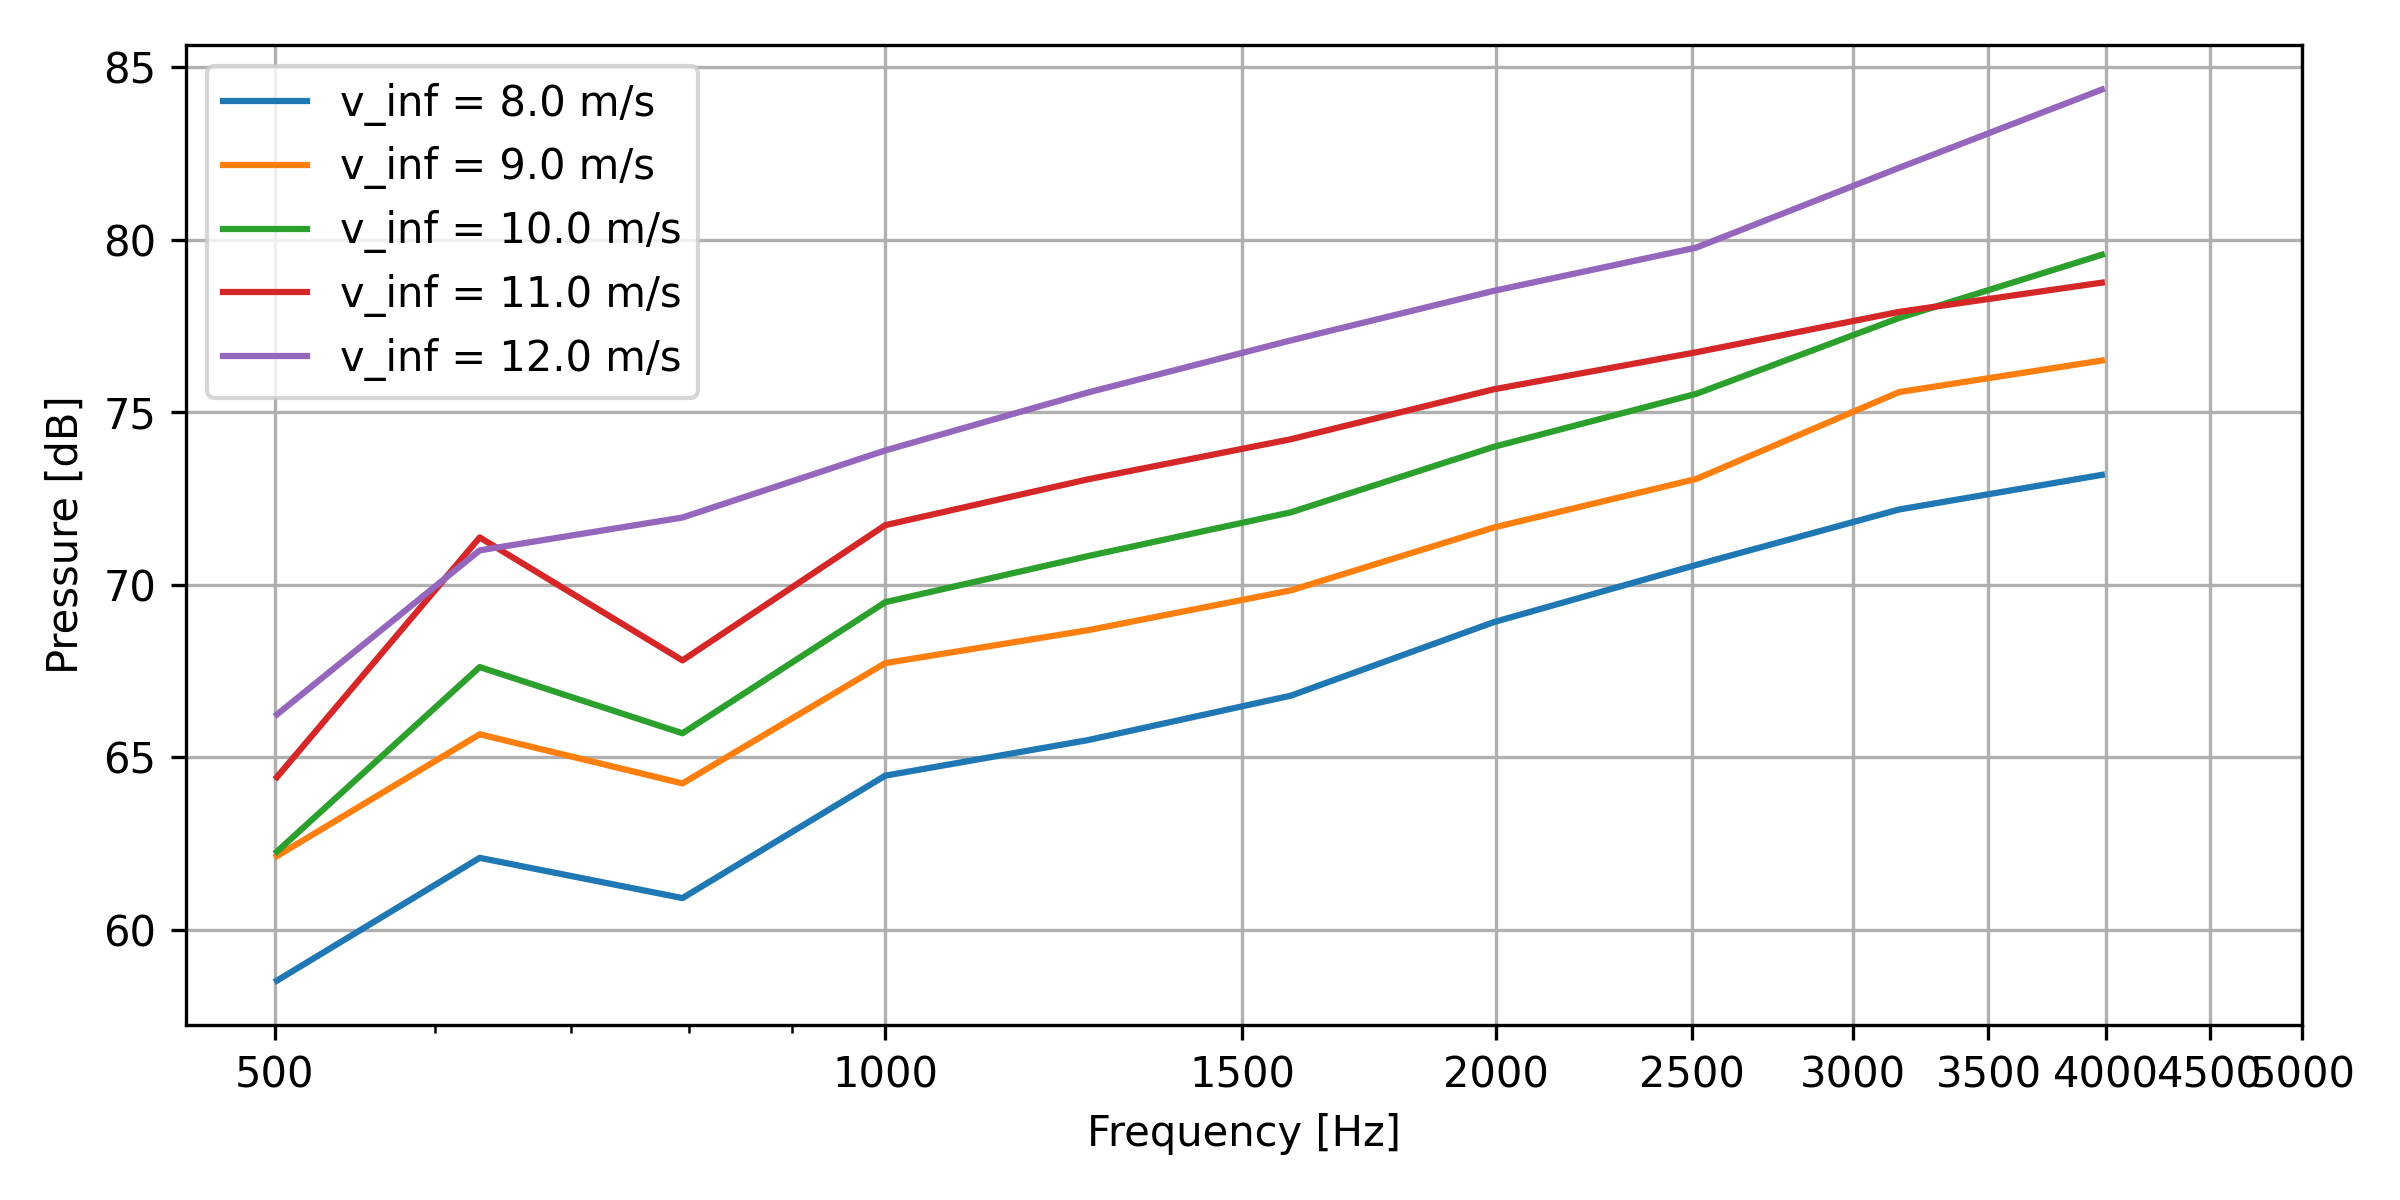
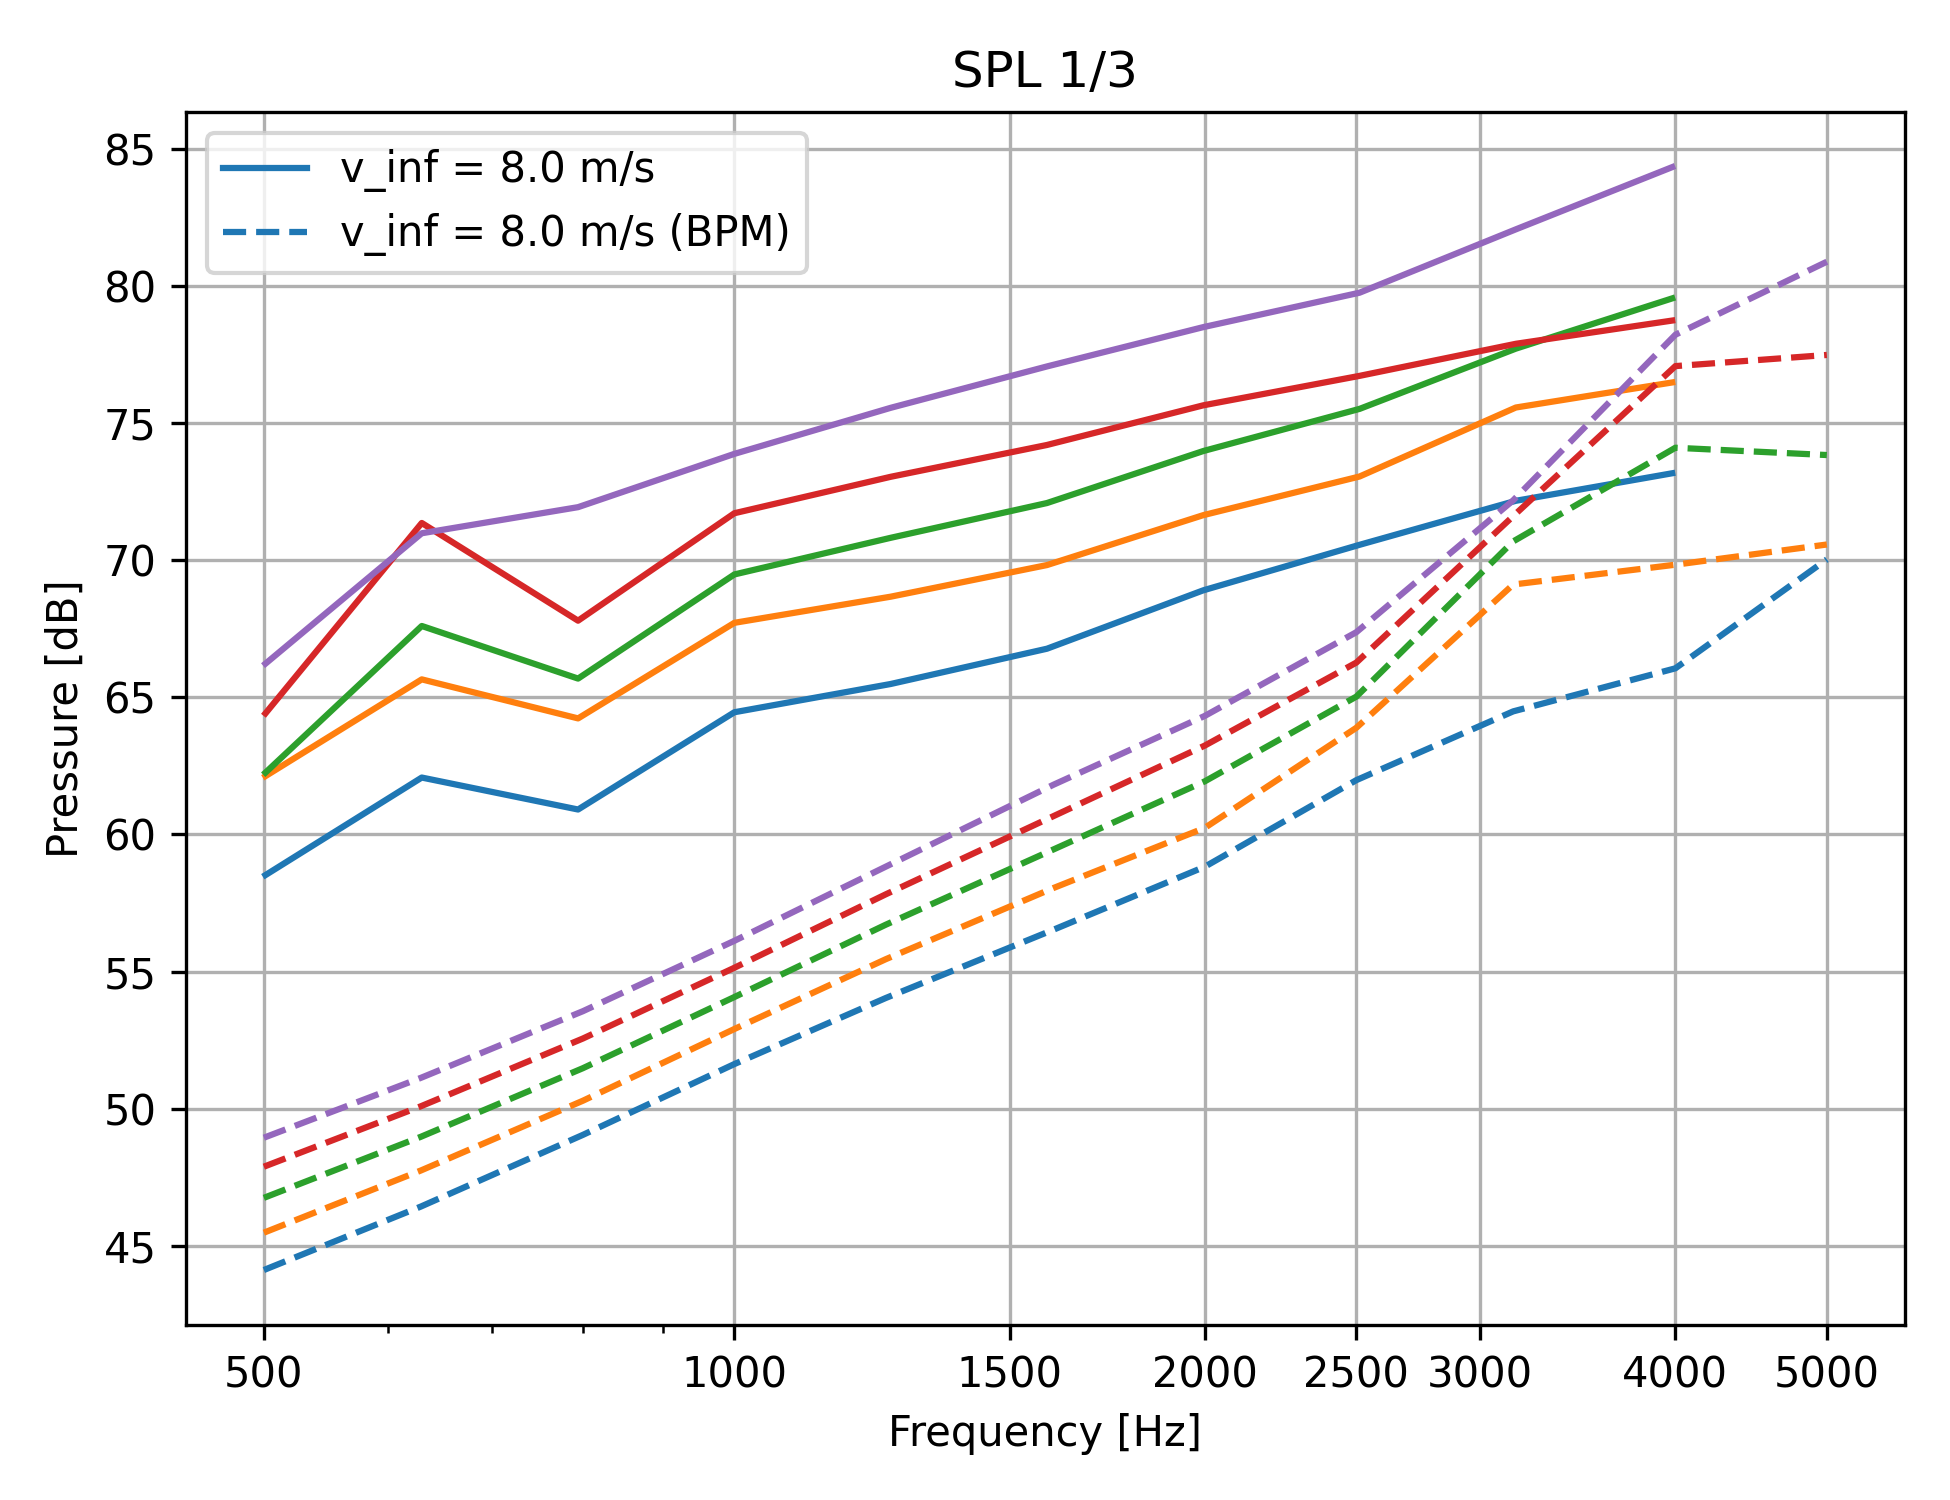
Better BPM

Changed region(s): [[0.0, 0.0308, 0.9846, 0.9867], [0.7385, 0.7092, 0.8, 0.74], [0.8308, 0.7092, 0.8615, 0.74]]

diff --git a/analysis.py b/analysis.py
@@ -6,19 +6,19 @@ import seaborn as sns
 import matplotlib.pyplot as plt
 import os
 import pickle as pkl
-from playsound import playsound
 
 with open('misc/windmill.txt', 'r') as f:
     print(f.read())
+
 
 # ----------------------------- Config ----------------------------------
 p_ref = 2E-5  # Reference pressure (Pa)
 sample_rate = 48128  # Hz
 f_lower = 500  # Hz
 f_upper = 5000 # Hz
-size_x = 8
-size_y = 4
-x_ticks = [500, 1000, 1500, 2000, 2500, 3000, 3500, 4000, 4500, 5000]
+size_x = 6.5
+size_y = 5
+x_ticks = [500, 1000, 1500, 2000, 2500, 3000, 4000, 5000]
 
 # Get paths for data files
 bg_paths = []
@@ -31,8 +31,8 @@ for file in os.listdir('data/downloads'):
             wt_paths.append(f'data/downloads/{file}')
 
 # Uncomment the following lines to use only one background and one wind turbine file
-#bg_paths = ['data/downloads/U08_Background.mat']
-#wt_paths = ['data/downloads/U08_Wind%20turbine.mat']
+#bg_paths = ['data/downloads/U12_Background.mat']
+#wt_paths = ['data/downloads/U12_Wind%20turbine.mat']
 
 # ------------------------- Prepare data --------------------------------
 
@@ -84,6 +84,15 @@ with open('BPM/saves/BPM_spl.pkl', 'rb') as f:
     SPLTBL_alpha = bpm_model[3]
     SPLTBL_tot = bpm_model[4]
 
+# Import data from FORTRAN BPM model (data/data.csv)
+df_fortran_bpm_list = []
+for v_inf in v_inf_list:
+    df_fortran_bpm = pd.read_csv(f'data/data{int(v_inf)}.csv', sep=',')
+    # Remove data outside of range
+    df_fortran_bpm = df_fortran_bpm[(df_fortran_bpm['freq'] >= f_lower) & (df_fortran_bpm['freq'] <= f_upper)]
+    df_fortran_bpm_list.append(df_fortran_bpm)
+
+
 # ---------------------------------- FFT ----------------------------------
 
 df_bg_fft_list = []
@@ -129,7 +138,7 @@ fig, ax = plt.subplots()
 fig.set_size_inches(size_x, size_y)
 for df_bg_fft, df_wt_fft, v_inf in zip(df_bg_fft_list, df_wt_fft_list, v_inf_list):
     sns.lineplot(data=df_wt_fft, x='freq', y=0, label=f'v_inf = {v_inf} m/s', ax=ax)
-#ax.set_title('FFT')
+ax.set_title('FFT')
 ax.grid(True)
 ax.set_ylabel('Pressure [Pa]')
 plt.xscale('log')
@@ -255,7 +264,7 @@ fig, ax = plt.subplots()
 fig.set_size_inches(size_x, size_y)
 for df_bg_welch_psd_db, df_wt_welch_psd_db, v_inf in zip(df_bg_welch_psd_db_list, df_wt_welch_psd_db_list, v_inf_list):
     sns.lineplot(data=df_wt_welch_psd_db, x='freq', y='psd', label=f'v_inf = {v_inf} m/s', ax=ax)
-#ax.set_title('PSD')
+ax.set_title('PSD')
 ax.grid(True)
 ax.set_ylabel('PSD [dB/Hz]')
 ax.set_xlabel('Frequency [Hz]')
@@ -270,7 +279,7 @@ fig, ax = plt.subplots()
 fig.set_size_inches(size_x, size_y)
 for df_wt_bg_welch_psd_db, v_inf in zip(df_wt_bg_welch_psd_db_list, v_inf_list):
     sns.lineplot(data=df_wt_bg_welch_psd_db, x='freq', y='psd', label=f'v_inf = {v_inf} m/s', ax=ax)
-#ax.set_title('PSD (wt - bg)')
+ax.set_title('PSD (wt - bg)')
 ax.grid(True)
 ax.set_ylabel('PSD [dB/Hz]')
 ax.set_xlabel('Frequency [Hz]')
@@ -332,10 +341,10 @@ for df_bg_spl, df_wt_spl, v_inf in zip(df_bg_spl_list, df_wt_spl_list, v_inf_lis
     sns.lineplot(data=df_wt_spl, x='freq', y='spl', label=f'v_inf = {v_inf} m/s', ax=ax)
 bpm_df = pd.DataFrame({'freq': bpm_f, 'spl': SPLTBL_tot})
 bpm_df = bpm_df[(bpm_df['freq'] >= f_lower) & (bpm_df['freq'] <= f_upper)]
-#sns.lineplot(data=bpm_df, x='freq', y='spl', label=f'(BPM) v_inf = x m/s', ax=ax)
-#ax.set_title('SPL')
+sns.lineplot(data=bpm_df, x='freq', y='spl', label=f'(BPM) v_inf = x m/s', ax=ax)
+ax.set_title('SPL')
 ax.grid(True)
-ax.set_ylabel('L_p [dB]')
+ax.set_ylabel('SPL [dB]')
 ax.set_xlabel('Frequency [Hz]')
 plt.xscale('log')
 plt.xticks(x_ticks, x_ticks)
@@ -348,10 +357,10 @@ fig, ax = plt.subplots()
 fig.set_size_inches(size_x, size_y)
 for df_wt_bg_spl, v_inf in zip(df_wt_bg_spl_list, v_inf_list):
     sns.lineplot(data=df_wt_bg_spl, x='freq', y='spl', label=f'v_inf = {v_inf} m/s')
-#sns.lineplot(data=bpm_df, x='freq', y='spl', label=f'(BPM) v_inf = {v_inf} m/s')
-#ax.set_title('SPL (wt - bg)')
+sns.lineplot(data=bpm_df, x='freq', y='spl', label=f'(BPM) v_inf = {v_inf} m/s')
+ax.set_title('SPL (wt - bg)')
 ax.grid(True)
-ax.set_ylabel('L_p [dB]')
+ax.set_ylabel('SPL [dB]')
 ax.set_xlabel('Frequency [Hz]')
 plt.xscale('log')
 plt.xticks(x_ticks, x_ticks)
@@ -363,6 +372,7 @@ plt.show()
 
 df_bg_spl_1_3_list = []
 df_wt_spl_1_3_list = []
+df_wt_bg_spl_1_3_list = []
 
 # Evaluate SPL in the frequency domain in 3rd octave bands
 freq_centre = 10 ** (0.1 * np.arange(12, 43))
@@ -370,45 +380,62 @@ freq_d = 10 ** 0.05
 f_upper_1_3 = freq_centre * freq_d
 f_lower_1_3 = freq_centre / freq_d
 
-for df_bg_welch_psd, df_wt_welch_psd, v_inf in zip(df_bg_welch_psd_list, df_wt_welch_psd_list, v_inf_list):
+for df_bg_welch_psd, df_wt_welch_psd, df_wt_bg_welch_psd, v_inf in zip(df_bg_welch_psd_list, df_wt_welch_psd_list, df_wt_bg_welch_psd_list, v_inf_list):
 
     print(f'[*] Calculating SPL_1/3 for v_inf = {v_inf} m/s...')
 
     df_bg_spl = pd.DataFrame(columns=['freq', 'spl'])
     df_wt_spl = pd.DataFrame(columns=['freq', 'spl'])
+    df_wt_bg_spl = pd.DataFrame(columns=['freq', 'spl'])
 
     # Clear values in dataframe
     df_bg_spl = df_bg_spl.iloc[0:0]
     df_wt_spl = df_wt_spl.iloc[0:0]
+    df_wt_bg_spl = df_wt_bg_spl.iloc[0:0]
 
     for l, c, u in zip(f_lower_1_3, freq_centre, f_upper_1_3):
         # Sum PSD in band
         sum_bg = df_bg_welch_psd[(df_bg_welch_psd['freq'] >= l) & (df_bg_welch_psd['freq'] < u)].sum()
         sum_wt = df_wt_welch_psd[(df_wt_welch_psd['freq'] >= l) & (df_wt_welch_psd['freq'] < u)].sum()
+        sum_wt_bg = df_wt_bg_welch_psd[(df_wt_bg_welch_psd['freq'] >= l) & (df_wt_bg_welch_psd['freq'] < u)].sum()
 
         # Add row to dataframe
         df_bg_spl = df_bg_spl.append({'freq': c, 'spl': sum_bg[0] * (u - l)}, ignore_index=True)
         df_wt_spl = df_wt_spl.append({'freq': c, 'spl': sum_wt[0] * (u - l)}, ignore_index=True)
+        df_wt_bg_spl = df_wt_bg_spl.append({'freq': c, 'spl': sum_wt_bg[0] * (u - l)}, ignore_index=True)
 
     # Convert spl column to dB
     df_bg_spl['spl'] = df_bg_spl['spl'].apply(lambda x: 10 * np.log10(x / (p_ref ** 2)))
     df_wt_spl['spl'] = df_wt_spl['spl'].apply(lambda x: 10 * np.log10(x / (p_ref ** 2)))
+    df_wt_bg_spl['spl'] = df_wt_bg_spl['spl'].apply(lambda x: 10 * np.log10(x / (p_ref ** 2)))
 
     # Remove frequencies outside of range
     df_bg_spl = df_bg_spl[(df_bg_spl['freq'] >= f_lower) & (df_bg_spl['freq'] <= f_upper)]
     df_wt_spl = df_wt_spl[(df_wt_spl['freq'] >= f_lower) & (df_wt_spl['freq'] <= f_upper)]
-
+    df_wt_bg_spl = df_wt_bg_spl[(df_wt_bg_spl['freq'] >= f_lower) & (df_wt_bg_spl['freq'] <= f_upper)]
     # Append to lists
     df_bg_spl_1_3_list.append(df_bg_spl)
     df_wt_spl_1_3_list.append(df_wt_spl)
+    df_wt_bg_spl_1_3_list.append(df_wt_bg_spl)
 
 # Plot results
 print('[*] Plotting results...')
 fig, ax = plt.subplots()
 fig.set_size_inches(size_x, size_y)
-for df_bg_spl, df_wt_spl, v_inf in zip(df_bg_spl_1_3_list, df_wt_spl_1_3_list, v_inf_list):
-    sns.lineplot(data=df_wt_spl, x='freq', y='spl', label=f'v_inf = {v_inf} m/s', ax=ax)
-#ax.set_title('SPL 1/3')
+colors = ['tab:blue', 'tab:orange', 'tab:green', 'tab:red', 'tab:purple']
+for df_bg_spl, df_wt_spl, df_wt_bg_spl, df_fortran_bpm, colors, v_inf in zip(df_bg_spl_1_3_list, df_wt_spl_1_3_list, df_wt_bg_spl_1_3_list, df_fortran_bpm_list, colors, v_inf_list):
+    sns.lineplot(data=df_wt_spl, x='freq', y='spl', label=f'v_inf = {v_inf} m/s', ax=ax, dashes=False, markers=True)
+    sns.lineplot(data=df_fortran_bpm, x='freq', y='spl', label=f'v_inf = {v_inf} m/s (BPM)', ax=ax, markers=True)
+    ax.lines[-1].set_linestyle('--')
+    ax.lines[-1].set_color(colors)
+    ax.lines[-2].set_color(colors)
+
+# Update legend for each line (all v_inf)
+handles, labels = ax.get_legend_handles_labels()
+ax.legend(handles=handles[0:len(v_inf_list)], labels=labels[0:len(v_inf_list)])
+
+#sns.lineplot(data=bpm_df, x='freq', y='spl', label=f'(BPM) v_inf = {v_inf} m/s')
+ax.set_title('SPL 1/3')
 ax.grid(True)
 ax.set_ylabel('Pressure [dB]')
 ax.set_xlabel('Frequency [Hz]')
@@ -417,6 +444,23 @@ plt.xticks(x_ticks, x_ticks)
 plt.tight_layout()
 plt.savefig('saves/spl_1_3.png', dpi=300)
 plt.show()
+
+# Plot error (wt - bpm)
+fig, ax = plt.subplots()
+fig.set_size_inches(size_x, size_y)
+for df_bg_spl, df_wt_spl, v_inf in zip(df_bg_spl_1_3_list, df_wt_spl_1_3_list, v_inf_list):
+    sns.lineplot(data=df_wt_spl - bpm_df, x='freq', y='spl', label=f'v_inf = {v_inf} m/s', ax=ax)
+ax.set_title('SPL 1/3 (wt - bpm)')
+ax.grid(True)
+ax.set_ylabel('Pressure [dB]')
+ax.set_xlabel('Frequency [Hz]')
+plt.xscale('log')
+plt.xticks(x_ticks, x_ticks)
+plt.tight_layout()
+plt.savefig('saves/spl_1_3_error.png', dpi=300)
+plt.show()
+
+
 
 
 # ---------------------------------- OSPL ----------------------------------
@@ -458,12 +502,11 @@ x = np.linspace(min(v_inf_list), max(v_inf_list), 100)
 y = trend_ideal_fn[0] * np.log10(x) + trend_ideal_fn[1]
 sns.lineplot(x=x, y=y, ax=ax, color='blue', label=f'{trend_ideal_fn[0]:.2f}*log(x) + {trend_ideal_fn[1]:.2f}')
 
-#ax.set_title(f'OSPL ({800} - {3000} Hz)')
+ax.set_title(f'OSPL ({800} - {3000} Hz)')
 ax.grid(True)
 ax.set_ylabel('OSPL [dB]')
 ax.set_xlabel('v_inf [m/s]')
 plt.savefig(f'saves/OSPL_800_3000.png', dpi=300)
 plt.show()
 
-playsound('./misc/bell.wav')
 print('[*] Done!')
